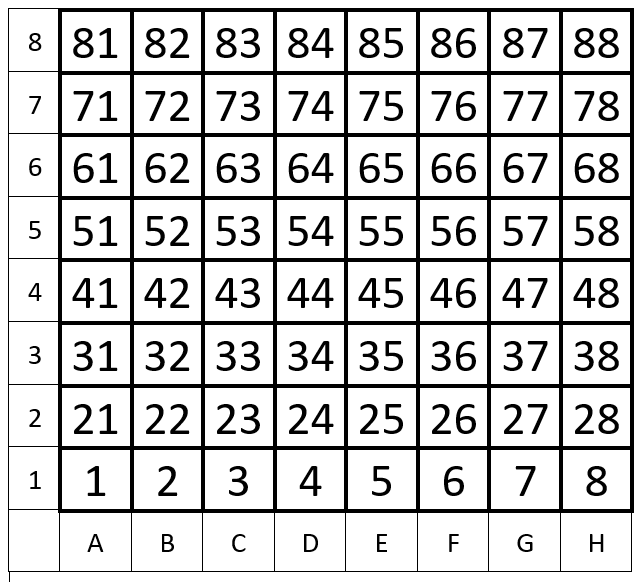
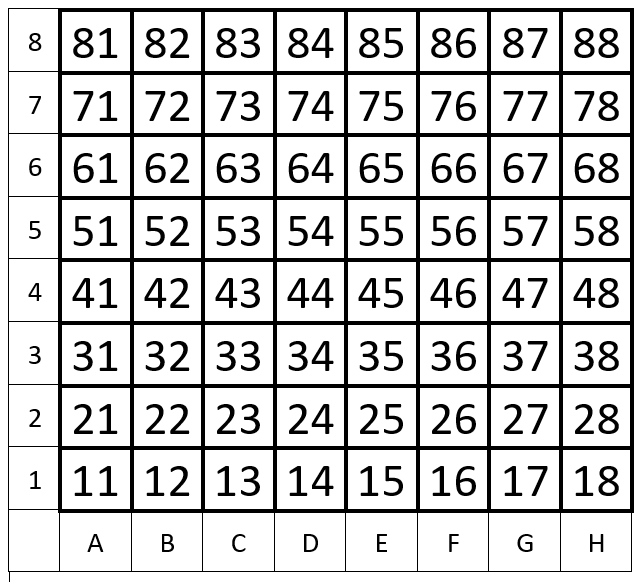
Corrections
Correction of the drawing and revision of the code

diff --git a/knight_tour.py b/knight_tour.py
@@ -1,16 +1,16 @@
-# Правило Варнсдорфа
+# Правило Варнсдорфа / The Warnsdorf Rule
 
 import random
 
 
-# генерация доски
+# генерация доски / generating a board
 board = [x * 10 + y for x in range(8,0,-1) for y in range(1,9)]
 
-# алгоритм ходов конем
+# алгоритм ходов конем / knight's move algorithm
 steps_knight = [21, 19, 12, 8, -8, -12, -19, -21]
 
-# начальное поле доски
-start_cell = 63
+# начальное поле доски / the initial field of the board
+start_cell = random.choice([10 * (y + 1) + (x + 1) for y in range(8) for x in range(8)])
 board.remove(start_cell)
 
 chess_board = {1:'a', 2:'b', 3:'c', 4:'d', 5:'e', 6:'f', 7:'g', 8:'h'}
@@ -20,21 +20,21 @@ print('Ход ', k, ' - ', chess_board[int(str(start_cell)[-1])],int(str(start_c
 
 while len(board)>0:
 
-    # количество ходов из текущего поля 
+    # количество ходов из текущего поля / the number of moves from the current field
     steps_quantity = [start_cell + item for item in steps_knight if start_cell + item in board]
 
-    # последующее количесто ходов из каждого поля
+    # последующее количество ходов из каждого поля / the subsequent number of moves from each field
     var = []
     for i in steps_quantity:
         possible_steps = [i + item for item in steps_knight if i + item in board]
         var.append(len(possible_steps))
 
-    # определение минимального количества ходов из последующих полей
-    # список индексов минимальных значений
+    # определение минимального количества ходов из последующих полей / determining the minimum number of moves from the following fields
+    # список индексов минимальных значений / list of minimum value indexes
     lst_random_step = [j for j, item in enumerate(var) if item == min(var)]
-    # выбор случайного числа из списка
+    # выбор случайного числа из списка / choosing a random number from the lis
     random_step = random.choice(lst_random_step)
-    # переход на новое поле
+    # переход на новое поле / switching to a new field
     start_cell = steps_quantity[random_step]
     k += 1
 